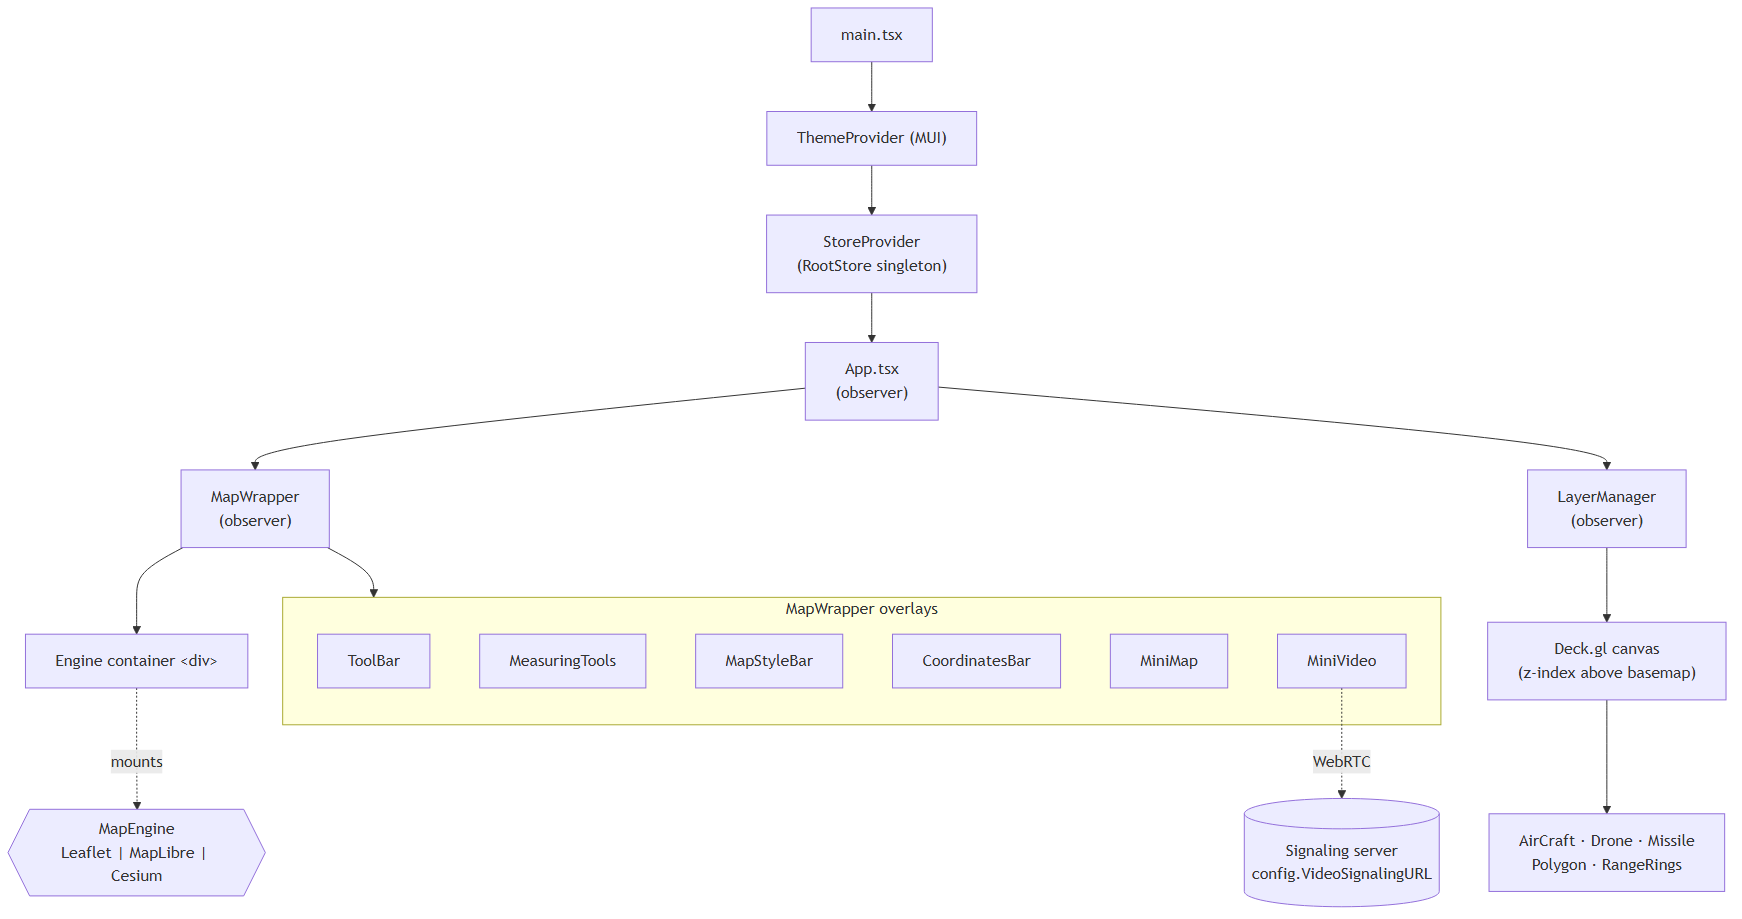
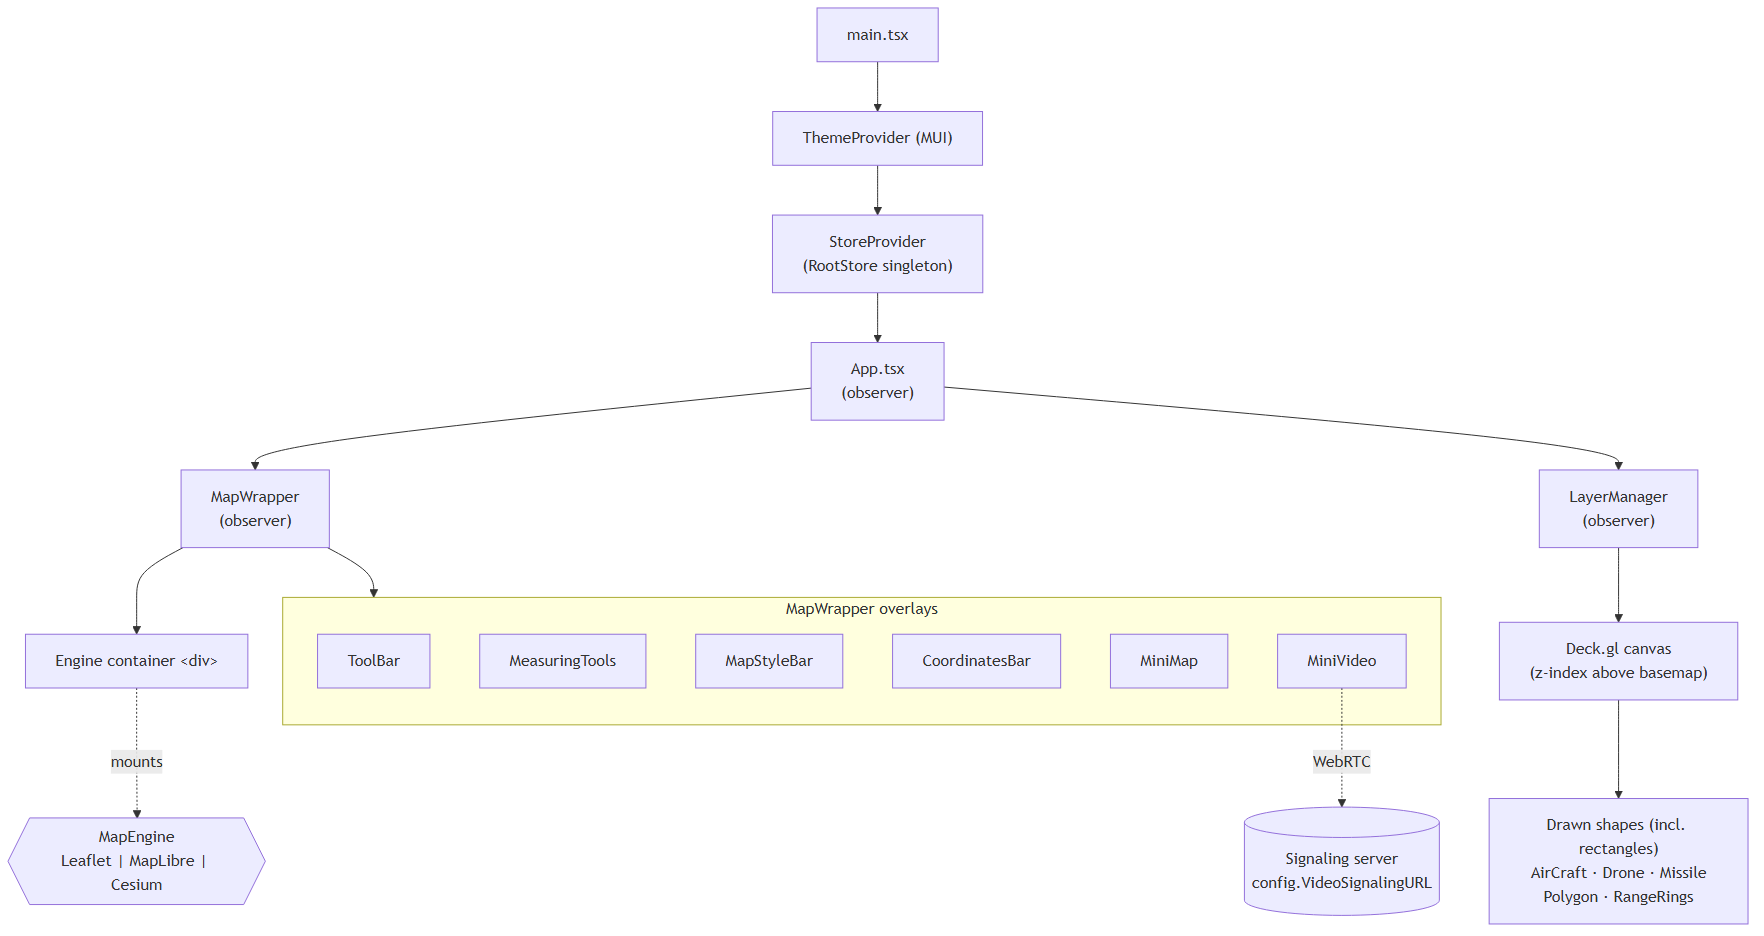
refactor: update architecture diagrams and README to reflect changes in drawing and editing flow with EntityService integration

diff --git a/src/assets/diagrams/README.md b/src/assets/diagrams/README.md
@@ -72,8 +72,11 @@ Source: [05-layers-data-flow.mmd](05-layers-data-flow.mmd)
 ## 6. Drawing & measuring flow
 
 UI updates `DrawingToolStore`, then asks the active engine to start a
-draw/measure session. The engine's completion callback writes the
-result back into the store.
+draw session. Completion flows through `EntityService` (the single
+writer) into the store, and Deck.gl renders `completedShapes`. Selecting
+a shape hands it to the engine for editing; vertex drags and deletes
+round-trip back through `EntityService` (`update` / `remove`), with
+`commit()` enabling undo/redo.
 
 ![Drawing flow](06-drawing-flow.png)
 
